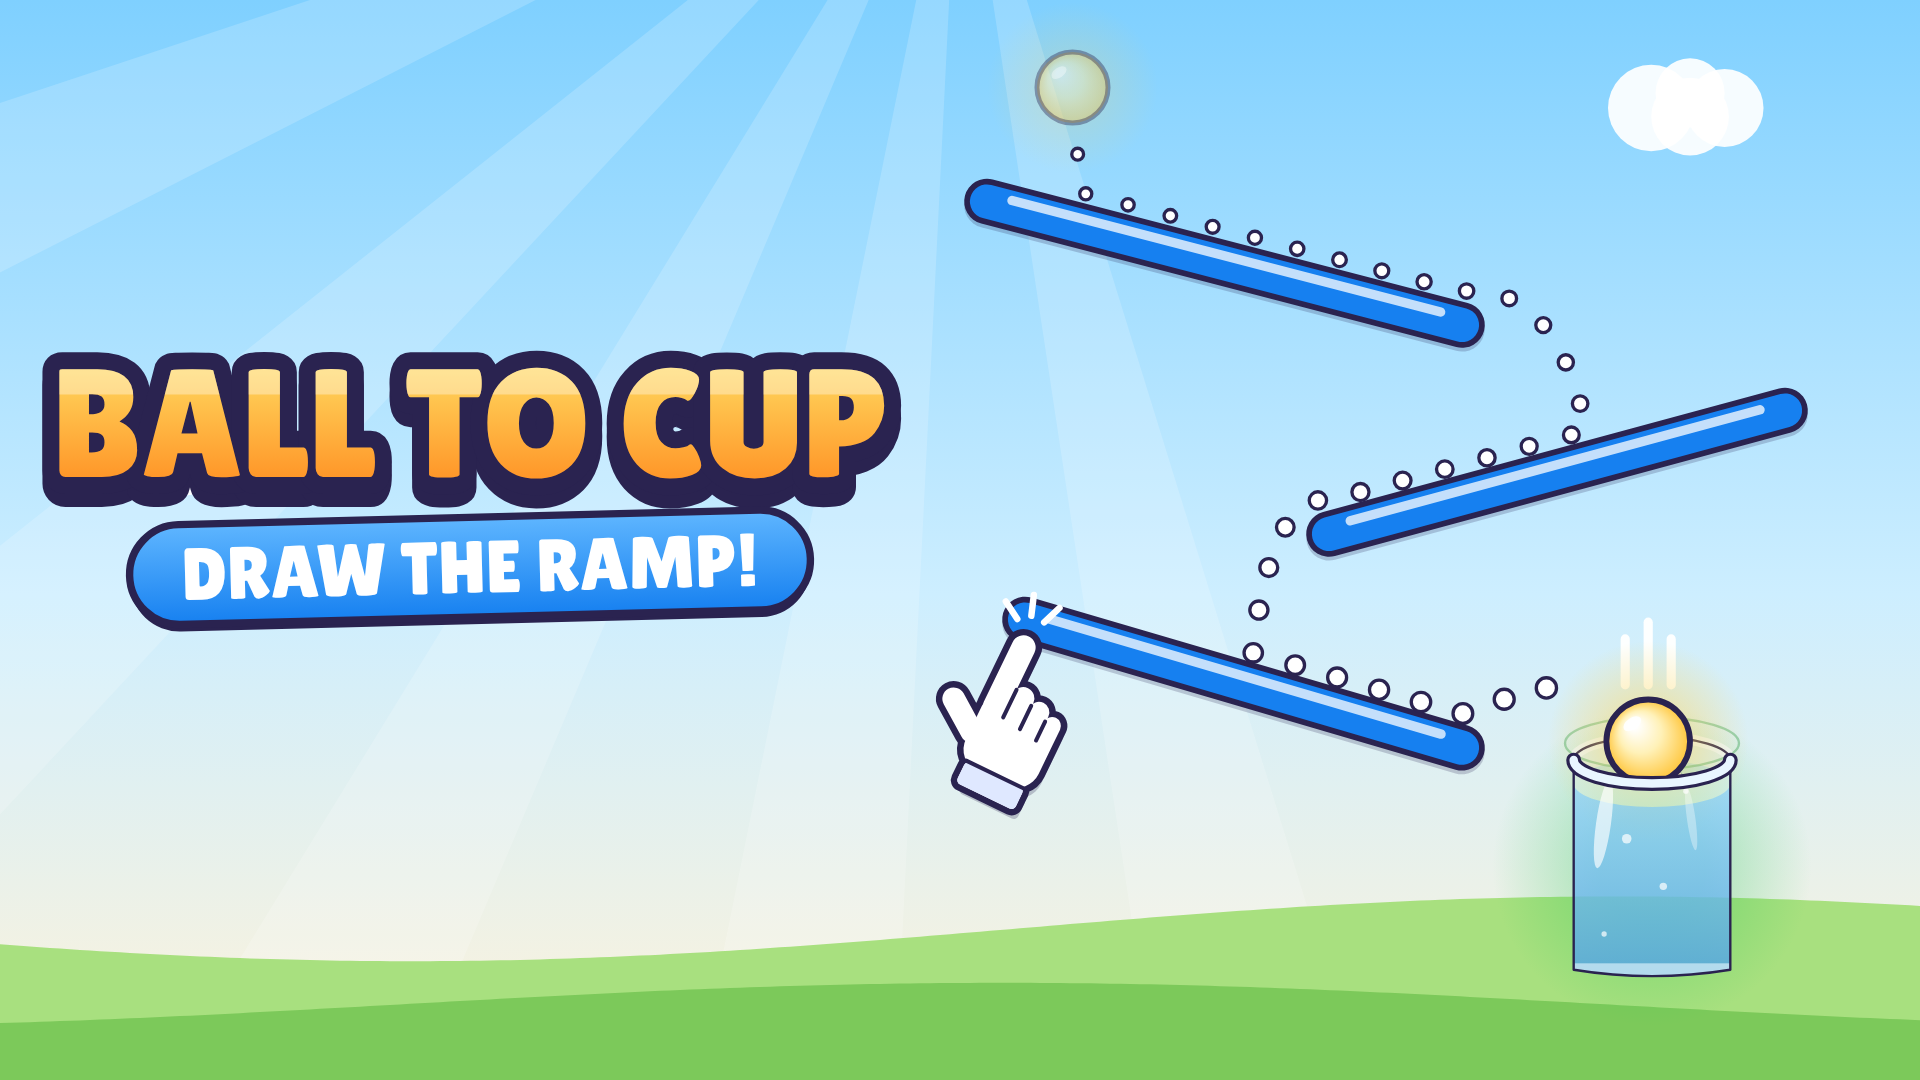
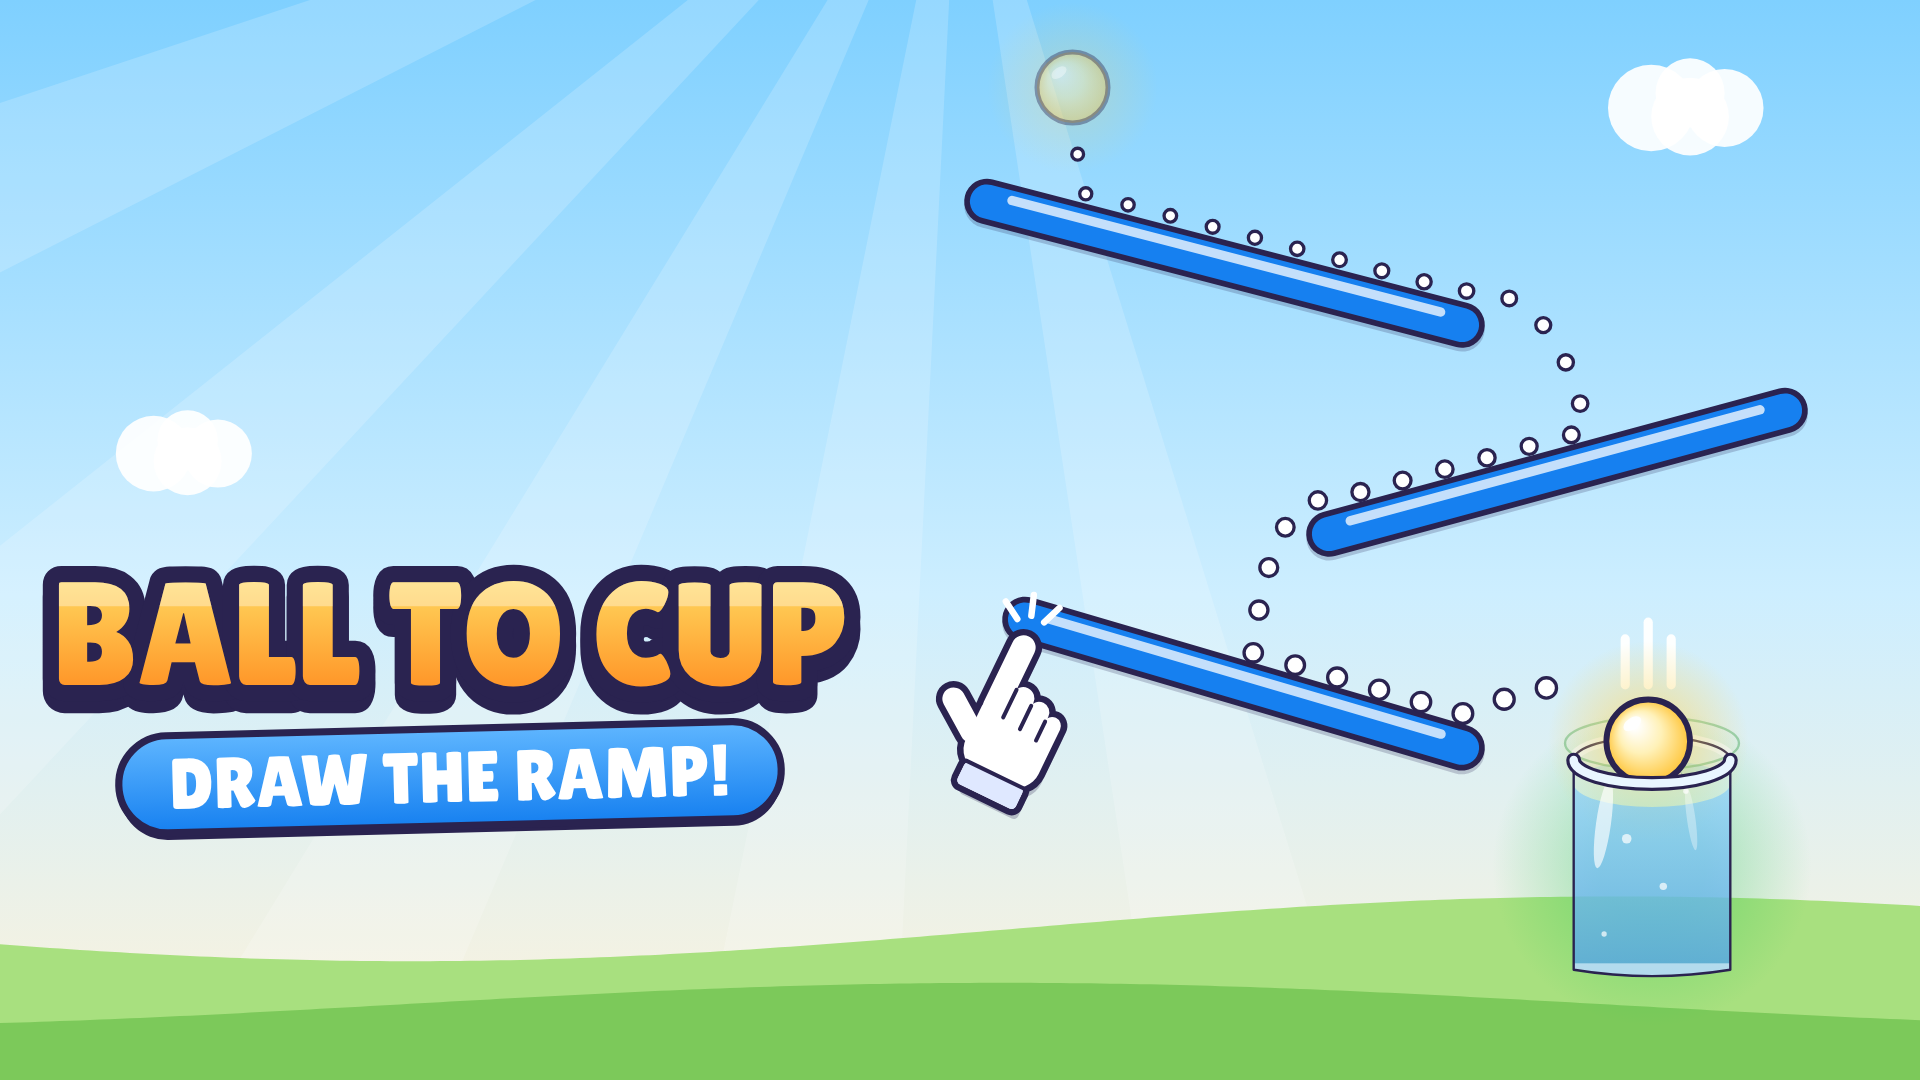
Adjust marketing thumbnails
Update the thumbnail layout coordinates for landscape, portrait, and square marketing images so the game art and title text sit in the intended positions. Regenerated the PNG exports to match the revised composition.

Changed region(s): [[0.0, 0.3056, 0.4688, 0.7944]]

diff --git a/tools/thumb.entry.ts b/tools/thumb.entry.ts
@@ -30,11 +30,11 @@ interface Layout {
 
 const LAYOUTS: Record<string, Layout> = {
   landscape: { W: 1920, H: 1080, box: { x: 930, y: 40, s: 0.95 },
-    title: { x: 470, y: 430, size: 176, sub: 74, maxW: 840 } },
-  portrait: { W: 800, H: 1200, box: { x: 18, y: 345, s: 0.8 },
-    title: { x: 400, y: 140, size: 128, sub: 54, maxW: 740 } },
-  square: { W: 800, H: 800, box: { x: 110, y: 205, s: 0.595 },
-    title: { x: 400, y: 92, size: 104, sub: 44, maxW: 740 } },
+    title: { x: 450, y: 640, size: 176, sub: 72, maxW: 800 } },
+  portrait: { W: 800, H: 1200, box: { x: 40, y: 40, s: 0.82 },
+    title: { x: 400, y: 1030, size: 128, sub: 54, maxW: 740 } },
+  square: { W: 800, H: 800, box: { x: 150, y: 10, s: 0.56 },
+    title: { x: 400, y: 655, size: 100, sub: 42, maxW: 740 } },
   icon: { W: 512, H: 512, box: { x: 8, y: 4, s: 0.5 } },
 };
 
